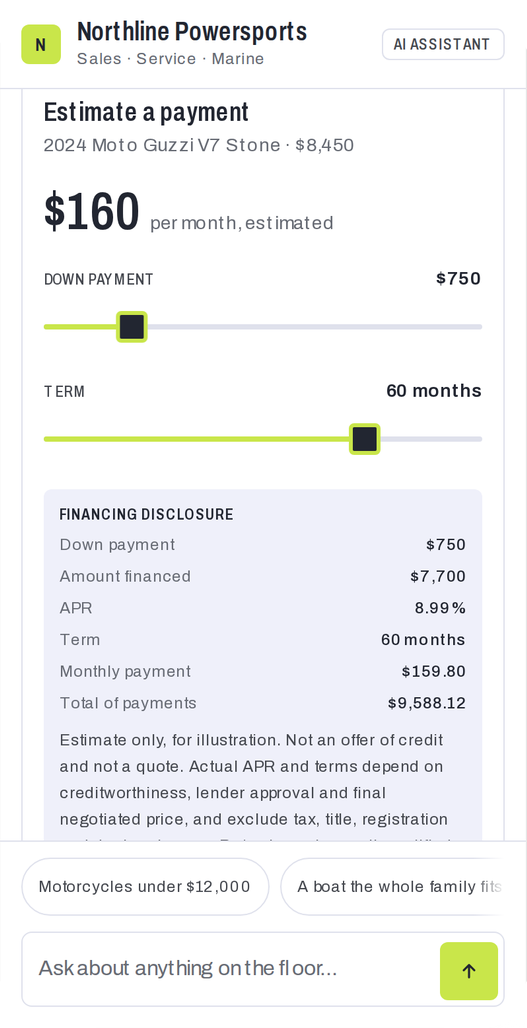
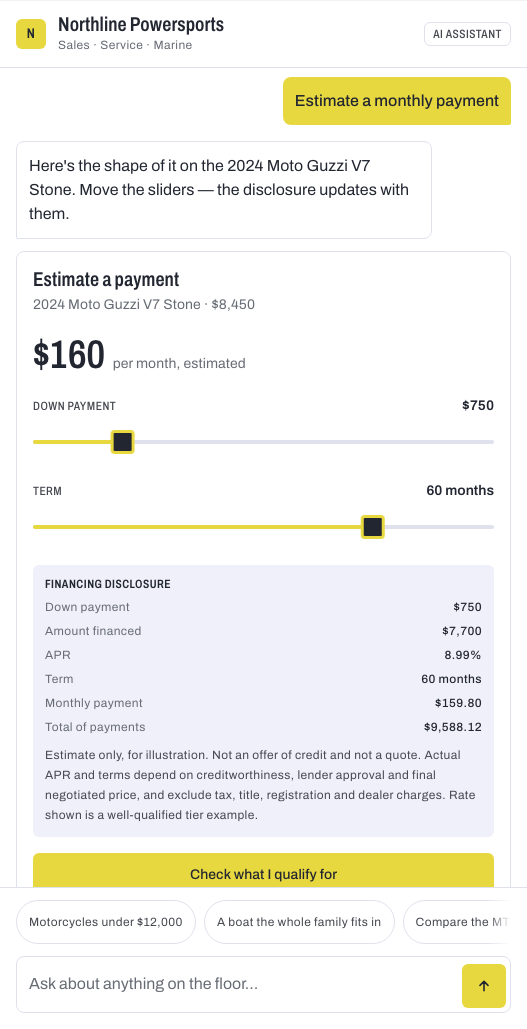
Update primary accent and regenerate showcase media

diff --git a/src/vitrine.css b/src/vitrine.css
@@ -46,9 +46,9 @@
 :root {
   /* ---- WRITABLE: the tenant surface. Five knobs. ----
      Five rather than four because a real design system turned up and needed
-     the fifth: Spoken's accent is a high-chroma lime that only works with its
+     the fifth: Spoken's warm yellow accent only works with its
      own dark ink on top. A brand's dark neutral is part of the brand. */
-  --vt-accent:      #c9e64a;
+  --vt-accent:      #e8d83f;
   --vt-ink:         #222631;
   --vt-radius:      8px;
   --vt-font:        Archivo, "Archivo Condensed", -apple-system, BlinkMacSystemFont, "Segoe UI", Inter, system-ui, sans-serif;
@@ -58,15 +58,14 @@
   /* ---- Derived by theme.js. Do not set by hand. ----
      --vt-accent      the brand colour, for FILLS
      --vt-accent-text the same hue pushed until it clears AA against the page,
-                      for accent-coloured TEXT. #c9e64a is 1.41:1 on white —
-                      as body copy it is invisible. Spoken solves this in its
-                      own palette with primary50 #757D00; the gate does the
-                      same thing automatically for any tenant.
+                      for accent-coloured TEXT. #e8d83f is 1.47:1 on white —
+                      as body copy it is invisible. The gate derives a darker
+                      step automatically for any tenant.
      --vt-on-accent   ink or white on the fill, chosen by measured contrast */
-  --vt-accent-text: #5f6f10;
+  --vt-accent-text: #886c2c;
   --vt-on-accent:   #222631;
-  --vt-accent-soft: rgba(201, 230, 74, 0.16);
-  --vt-accent-ring: rgba(201, 230, 74, 0.42);
+  --vt-accent-soft: rgba(232, 216, 63, 0.16);
+  --vt-accent-ring: rgba(232, 216, 63, 0.42);
 
   /* ---- Type: Spoken's scale, in rem so browser text scaling works.
      Fixed px silently ignores the user's accessibility setting. ---- */
@@ -146,7 +145,7 @@
   --vt-hairline-2:  #26292c;
   --vt-track:       #34383c;
   --vt-shadow-lift: 0 2px 12px rgba(0, 0, 0, .6);
-  --vt-accent-soft: rgba(201, 230, 74, 0.14);
+  --vt-accent-soft: rgba(232, 216, 63, 0.14);
 }
 
 /* ---- Three accessibility signals, answered independently. Treating them as
@@ -550,7 +549,7 @@
 }
 .vt-cmp tbody th { font-size: var(--vt-t-small); font-weight: 400; color: var(--vt-ink-3); width: 34%; letter-spacing: var(--vt-tr-caption); }
 .vt-cmp td { font-variant-numeric: tabular-nums; color: var(--vt-ink); }
-/* Accent as TEXT uses the contrast-corrected token. With a lime accent this
+/* Accent as TEXT uses the contrast-corrected token. With a light amber accent this
    is the entire difference between a readable cell and a blank one. */
 .vt-cmp td.best { color: var(--vt-accent-text); font-weight: 600; }
 .vt-cmp-wrap { overflow-x: auto; padding: var(--vt-s0) 0 var(--vt-s1); }

diff --git a/tools/readme_media/capture.js b/tools/readme_media/capture.js
@@ -1,0 +1,73 @@
+"use strict";
+
+const path = require("path");
+const { pathToFileURL } = require("url");
+const { chromium } = require("playwright");
+
+const root = path.resolve(__dirname, "../..");
+const output = path.join(root, "docs/assets/readme");
+
+async function settle(page) {
+  await page.waitForFunction(() => {
+    const send = document.querySelector(".vt-send");
+    return send && !send.disabled && !document.querySelector(".vt-typing");
+  });
+  await page.waitForTimeout(250);
+}
+
+async function send(page, message) {
+  await page.locator(".vt-composer textarea").fill(message);
+  await page.locator(".vt-composer textarea").press("Enter");
+  await settle(page);
+}
+
+async function prepare(page) {
+  await page.emulateMedia({ reducedMotion: "reduce" });
+  await page.goto(pathToFileURL(path.join(root, "index.html")).href);
+  await page.locator("#device").waitFor();
+  await page.locator(".vt-chips").waitFor();
+  await page.waitForTimeout(500);
+  await page.evaluate(() => {
+    const stage = document.querySelector(".stage");
+    const device = document.querySelector("#device");
+    stage.style.width = "527px";
+    device.style.width = "527px";
+    device.style.height = "1028px";
+    device.style.minHeight = "1028px";
+    device.style.border = "0";
+    device.style.borderRadius = "0";
+    device.style.boxShadow = "none";
+  });
+}
+
+async function capture(page, fileName) {
+  await page.locator(".vt-composer textarea").blur();
+  await page.locator("#device").screenshot({ path: path.join(output, fileName) });
+}
+
+(async () => {
+  const browser = await chromium.launch();
+  const page = await browser.newPage({ viewport: { width: 1280, height: 1100 }, deviceScaleFactor: 1 });
+
+  try {
+    await prepare(page);
+    await send(page, "Motorcycles under $12,000");
+    await capture(page, "vitrine-inventory.png");
+
+    await send(page, "Estimate a monthly payment");
+    await capture(page, "vitrine-finance.png");
+
+    await prepare(page);
+    await page.locator('.theme[data-key="violet"]').click();
+    await page.locator("#tog-scheme").click();
+    await send(page, "A boat the whole family fits in");
+    await capture(page, "vitrine-white-label.png");
+  } finally {
+    await browser.close();
+  }
+
+  console.log("Captured Vitrine README product states in " + output);
+})().catch((error) => {
+  console.error(error);
+  process.exitCode = 1;
+});

diff --git a/src/theme.js b/src/theme.js
@@ -81,7 +81,8 @@
   const PRESETS = {
     spoken: {
       label: "Spoken",
-      accent: "#c9e64a",
+      accent: "#e8d83f",
+      accentText: "#886c2c",
       ink: "#222631",
       radius: 8,
       font: 'Archivo, "Archivo Condensed", -apple-system, BlinkMacSystemFont, "Segoe UI", Inter, system-ui, sans-serif',
@@ -132,9 +133,20 @@
     }
 
     const rawRatio = contrast(accent, surface);
-    const fixed = ensureReadable(accent, surface, 4.5, isDark ? WHITE : BLACK);
+    const suppliedAccentText = hexToRgb(theme.accentText);
+    const suppliedRatio = suppliedAccentText ? contrast(suppliedAccentText, surface) : 0;
+    const fixed = suppliedAccentText && suppliedRatio >= 4.5
+      ? { color: suppliedAccentText, steps: 0, supplied: true }
+      : ensureReadable(accent, surface, 4.5, isDark ? WHITE : BLACK);
 
-    if (fixed.steps === 0) {
+    if (fixed.supplied) {
+      report.push({
+        check: "accent on surface",
+        status: "ADJUSTED",
+        detail: "brand " + rawRatio.toFixed(2) + ":1 was below AA; accessible token " +
+                rgbToHex(fixed.color) + " selected at " + suppliedRatio.toFixed(2) + ":1. Fills keep the original."
+      });
+    } else if (fixed.steps === 0) {
       report.push({ check: "accent on surface", status: "PASS", detail: "contrast " + rawRatio.toFixed(2) + ":1 (AA needs 4.5)" });
     } else if (fixed.exhausted) {
       report.push({ check: "accent on surface", status: "FAIL", detail: "could not reach 4.5:1 — accent text disabled, marks only" });
@@ -151,8 +163,8 @@
        The tenant supplies a dark neutral; we use it on the fill when it is
        legible there, because a brand's own ink on its own accent is the look
        the brand designed. Only when it fails do we fall back to measured
-       black or white. Spoken's lime with its #222631 ink is exactly this
-       case: 10.7:1, far better than either default. */
+       black or white. Spoken's warm yellow with its #222631 ink is exactly this
+       case: 10.31:1, far better than either default. */
     let ink = hexToRgb(theme.ink);
     if (!ink) ink = isDark ? { r: 242, g: 243, b: 245 } : { r: 34, g: 38, b: 49 };
 

diff --git a/tools/readme_media/generate.swift b/tools/readme_media/generate.swift
@@ -19,7 +19,7 @@ let ink = NSColor(calibratedRed: 0.075, green: 0.082, blue: 0.098, alpha: 1)
 let paper = NSColor(calibratedRed: 0.965, green: 0.957, blue: 0.925, alpha: 1)
 let surface = NSColor(calibratedRed: 0.992, green: 0.990, blue: 0.978, alpha: 1)
 let muted = NSColor(calibratedRed: 0.36, green: 0.37, blue: 0.40, alpha: 1)
-let lime = NSColor(calibratedRed: 0.76, green: 0.92, blue: 0.20, alpha: 1)
+let warmYellow = NSColor(calibratedRed: 232 / 255, green: 216 / 255, blue: 63 / 255, alpha: 1)
 let violet = NSColor(calibratedRed: 0.49, green: 0.17, blue: 0.78, alpha: 1)
 let darkScreen = NSColor(calibratedWhite: 0.025, alpha: 1)
 
@@ -37,7 +37,7 @@ let sceneDefinitions: [(
     "GENERATIVE COMMERCE",
     "Let the product\nanswer.",
     "Typed inventory cards, chosen by the model — never improvised markup.",
-    lime,
+    warmYellow,
     surface,
     ink
   ),
@@ -46,7 +46,7 @@ let sceneDefinitions: [(
     "COMPLIANCE BY CONSTRUCTION",
     "Numbers that\nstay honest.",
     "Interactive financing with the disclosure structurally attached.",
-    lime,
+    warmYellow,
     surface,
     ink
   ),

diff --git a/index.html b/index.html
@@ -161,7 +161,7 @@
 
       <div class="panel">
         <h2>Contrast gate</h2>
-        <p>Every accent and ink is measured before it is applied. The Spoken lime is 1.41:1 on white — as body copy it is invisible — so the gate derives a darker step for accent text while the fills keep the real brand colour. Try <strong>Pale</strong> to watch it work harder.</p>
+        <p>Every accent and ink is measured before it is applied. The Spoken yellow is 1.47:1 on white — as body copy it is invisible — so the gate uses its accessible <code>#886C2C</code> token for text while fills keep the real brand colour. Try <strong>Pale</strong> to watch it work harder.</p>
         <ul class="report" id="report"></ul>
       </div>
 

diff --git a/README.md b/README.md
@@ -159,13 +159,13 @@ Its first run found six violations in a UI that looked fine, including secondary
 
 ## The contrast gate, with a real brand colour
 
-Spoken's accent is a lime. Against white it measures **1.41:1** — as body copy it is not dim, it is invisible. Spoken solves this in its own palette by keeping a second, darker step (`primary50`) for accent-coloured text.
+Spoken's accent is a warm yellow. Against white it measures **1.47:1** — as body copy it is not dim, it is invisible. Spoken pairs it with `#886C2C`, a darker token for accent-coloured text.
 
 The gate does that automatically for any tenant, and the demo shows all three outcomes at once:
 
-- **Fills keep the real brand colour.** The lime button is the lime.
-- **Accent text gets a derived step.** The same hue pushed 48% darker until it clears AA, so a highlighted table cell is readable without stopping being the brand.
-- **What sits on the fill is measured, not assumed.** The tenant's own ink `#222631` scores 10.72:1 on the lime, so it wins over black or white. That is the look the brand designed; the gate only overrides it when it fails.
+- **Fills keep the real brand colour.** The yellow button stays `#E8D83F`.
+- **Accent text uses the accessible token.** `#886C2C` scores 4.97:1 on white, so highlighted text clears AA without losing the warm palette.
+- **What sits on the fill is measured, not assumed.** The tenant's own ink `#222631` scores 10.31:1 on the yellow, so it wins over black or white. That is the look the brand designed; the gate only overrides it when it fails.
 
 This is why the tenant surface is five tokens rather than four. A high-chroma accent only works with a specific dark neutral on top of it, and that neutral is part of the brand, not a host decision.
 

diff --git a/docs/assets/readme/README.md b/docs/assets/readme/README.md
@@ -1,13 +1,14 @@
 # README media
 
-The three `vitrine-*.png` product states are the reviewed source captures.
-The generator reads them without modifying them and produces the animated hero
-and its static poster. The composition presents those states inside an iPhone
-16 Pro-style frame with device-correct proportions, controls, safe area and
-Dynamic Island.
+The three `vitrine-*.png` product states are reproducible captures of the
+running demo. The Swift generator reads them without modifying them and
+produces the animated hero and its static poster. The composition presents
+those states inside an iPhone 16 Pro-style frame with device-correct
+proportions, controls, safe area and Dynamic Island.
 
 Regenerate from the repository root on macOS:
 
 ```bash
+node tools/readme_media/capture.js
 swift tools/readme_media/generate.swift
 ```
